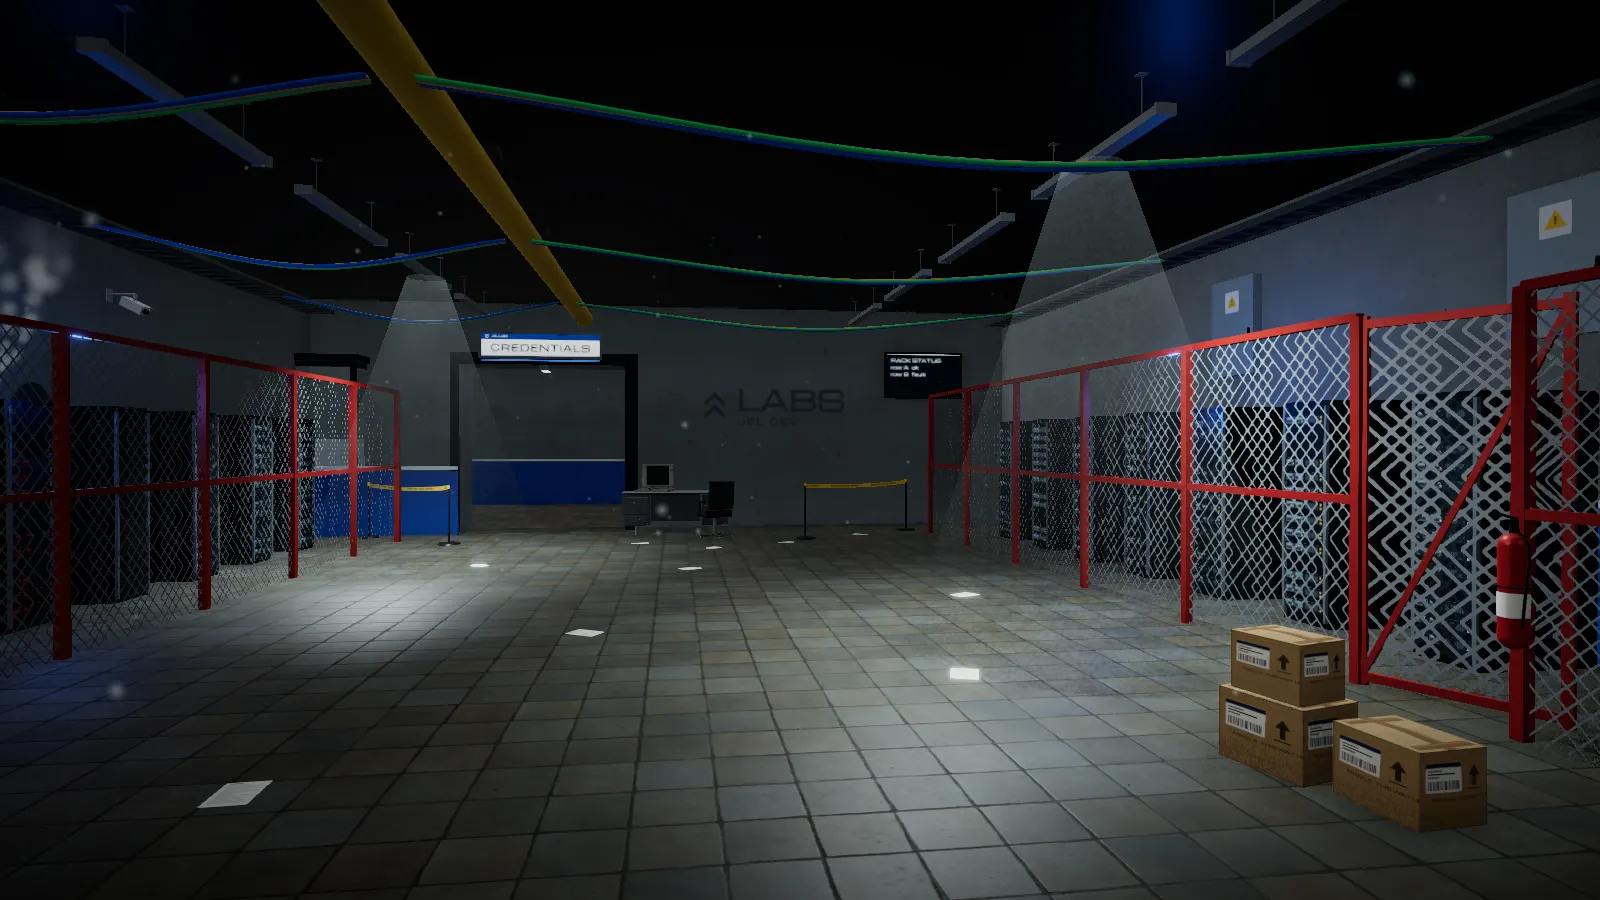
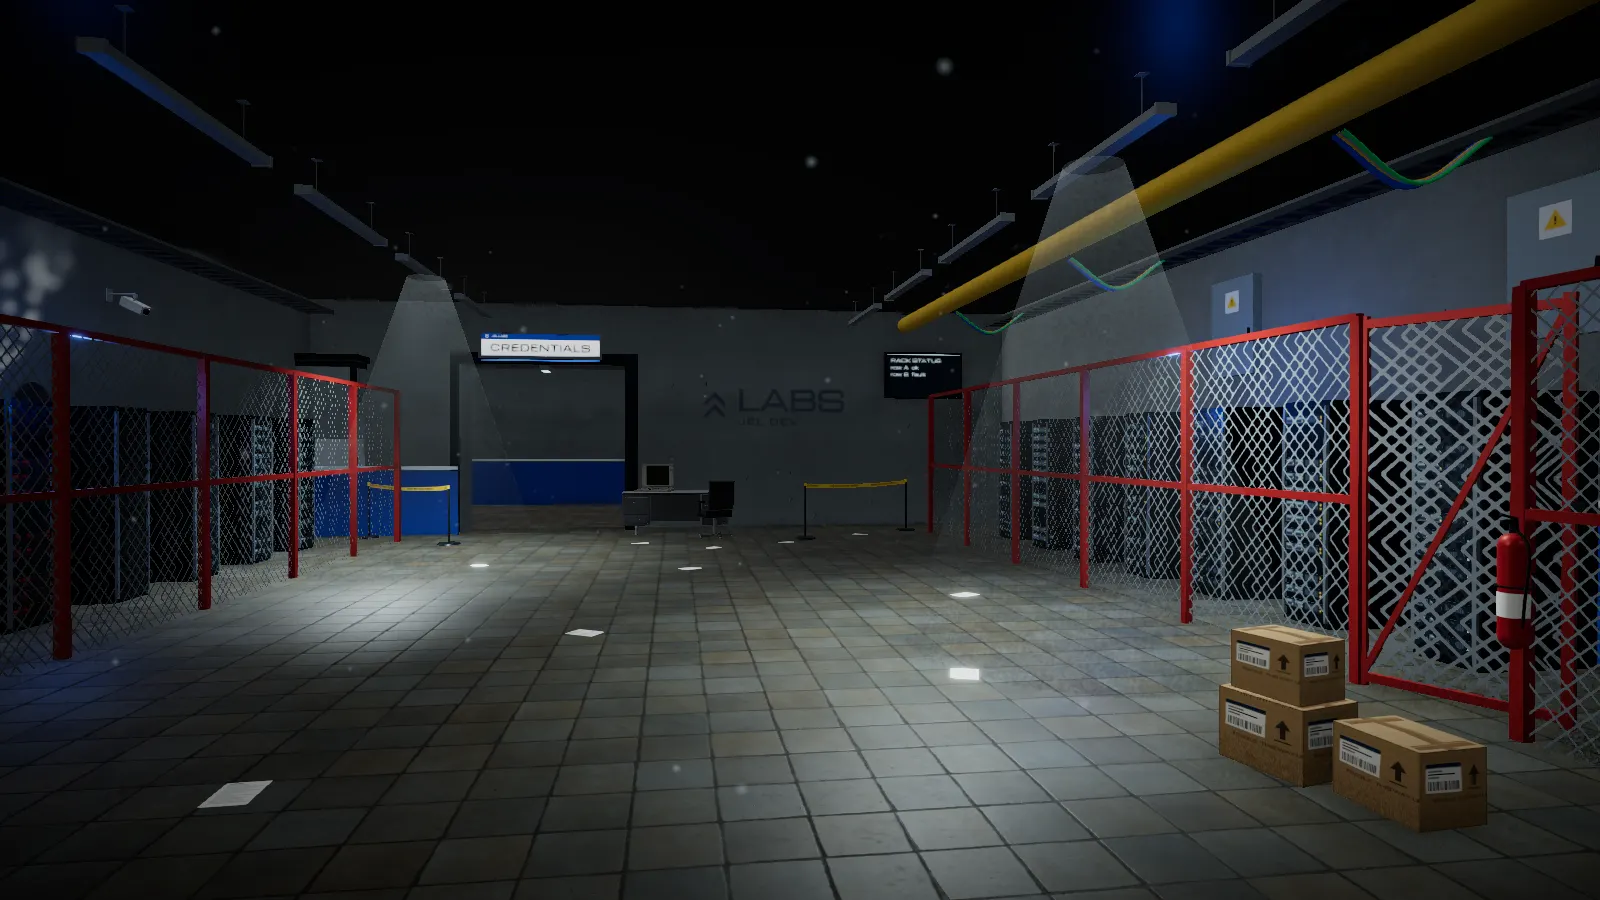
Put the rack fire where it can be seen, and give it a flame
The burning rack has been in the room since the server hall was built, with
soot up the carcass, an ember on its top, an alarm strobe on the wall beside
it and smoke leaving it. Nobody has ever seen it, for two reasons.

It stood fifth along the north row, and the hold looks west down the aisle
from x -58, so a rack's angle off the centre of the frame is its distance off
the row over its distance down the hall. Six metres off the line and nine down
it put the fire 36 degrees out, hard against the left edge of a 55 degree lens
and behind the room's own copy. Two racks further down the hall is 25 degrees,
in the clear band between the copy column and the doorway. The dead rack moves
with it, since the story is that it stands next to the one that already went.

And it had smoke but no fire. Grey smoke on an unlit black ceiling is grey on
black. Smoke is the consequence, so the cause is drawn now too: a short
additive plume in the mouth of the slow grey one, small and quick and orange.
Additive means it makes its own brightness rather than waiting on a light this
room has no budget left to hand it, and it clears the bloom threshold, so the
rack top carries a halo.

diff --git a/src/scenes/walk/stages/operations/index.ts b/src/scenes/walk/stages/operations/index.ts
@@ -25,11 +25,19 @@ async function build(ctx: StageContext): Promise<Stage> {
     o.receiveShadow = !translucent;
   });
   // Dust in the aisle, in the cold light off the racks: fewer motes than before and each larger and
-  // softer, so they read as dust turning in a shaft rather than as speckle. And the smoke off the
-  // burning rack, grey and slow, leaning out over the aisle as it thins.
+  // softer, so they read as dust turning in a shaft rather than as speckle. And two plumes off the
+  // burning rack.
+  //
+  // The smoke was the whole of it for a long time and it could not be seen, because grey smoke on
+  // an unlit black ceiling is grey on black. Smoke is the consequence and the flame is the thing,
+  // so the flame is drawn: a short additive plume, small and quick and orange, sitting in the mouth
+  // of the slow grey one. Additive means it makes its own brightness rather than waiting on a light
+  // this room has no budget left to give it, and it clears the bloom threshold, so the rack tops
+  // carry a halo the way the neon over the shutter does.
   const fx: ParticleSystem[] = [
     dust([X0 + 2, 0.3, Z0 + 2.4], [X1 - 1, 4.0, Z1 - 2.4], tier === 'high' ? 160 : 60, { size: 0.07, opacity: 0.18, color: 0xd8e8f0 }),
     plume(fire.top, { count: tier === 'high' ? 38 : 16, life: 4.4, rise: 1.7, spread: 0.34, size: 0.34, grow: 2.6, color: 0x8b9298, opacity: 0.5, drift: [0.02, 0, -0.12], texture: 'smoke', seed: 5 }),
+    plume(fire.top, { count: tier === 'high' ? 18 : 9, life: 1.1, rise: 0.6, spread: 0.09, size: 0.17, grow: 1.5, color: 0xff7d28, opacity: 0.55, drift: [0.01, 0, -0.03], additive: true, texture: 'soft', seed: 11 }),
   ];
   for (const p of fx) root.add(p.points);
   // The rows breathe. Every rack's units are one batch over one material, so a whole rack pulses on

diff --git a/src/scenes/walk/stages/operations/layout.ts b/src/scenes/walk/stages/operations/layout.ts
@@ -37,9 +37,19 @@ export const BATTEN_DROP = 0.35;
 export const BATTEN_Y = H - 0.035 - BATTEN_DROP;
 export const SPOT_FITTINGS: [number, number][] = [[-65, BATTEN_ROWS[0]], [-71, BATTEN_ROWS[1]]];
 
-/** By ordinal along the row from the east end: the north rack that is burning. It stands next to
- *  the dead one, which is the order those two things happen in. */
-export const FIRE_NORTH = 5;
+/**
+ * By ordinal along the row from the east end: the north rack that is burning. It stands next to the
+ * dead one, which is the order those two things happen in.
+ *
+ * Which ordinal is a framing decision, not a dressing one. The hold looks west down the aisle from
+ * x -58, so a rack's angle off the centre of the frame is its distance off the row divided by its
+ * distance down the hall: the north row is 6.4 m off the line, so the fifth rack along sat 36
+ * degrees out, which on a 55 degree lens is hard against the left edge behind the room's own copy.
+ * The fire was built, lit, smoking and strobing there for a week and could not be seen. Far enough
+ * down the hall and the same rack is 25 degrees out, which is inside the clear band between the
+ * copy column and the doorway.
+ */
+export const FIRE_NORTH = 2;
 
 /**
  * The tape. Each cage run's west end post is tied to a stanchion out in the hall, one run each

diff --git a/src/scenes/walk/stages/operations/dressing.ts b/src/scenes/walk/stages/operations/dressing.ts
@@ -22,7 +22,7 @@ export interface Dressing { hotspots: Hotspot[]; blink: Blink[]; fire: Fire; cam
 /** By ordinal along the row, counting from the east end: the two south racks somebody left open,
  *  and the north rack with no power. */
 const OPEN_SOUTH = new Set([2, 6]);
-const DEAD_NORTH = 4;
+const DEAD_NORTH = 1;
 
 /**
  * The server hall. Sixteen racks in two caged rows under a hazard yellow trunk pipe, which is the
